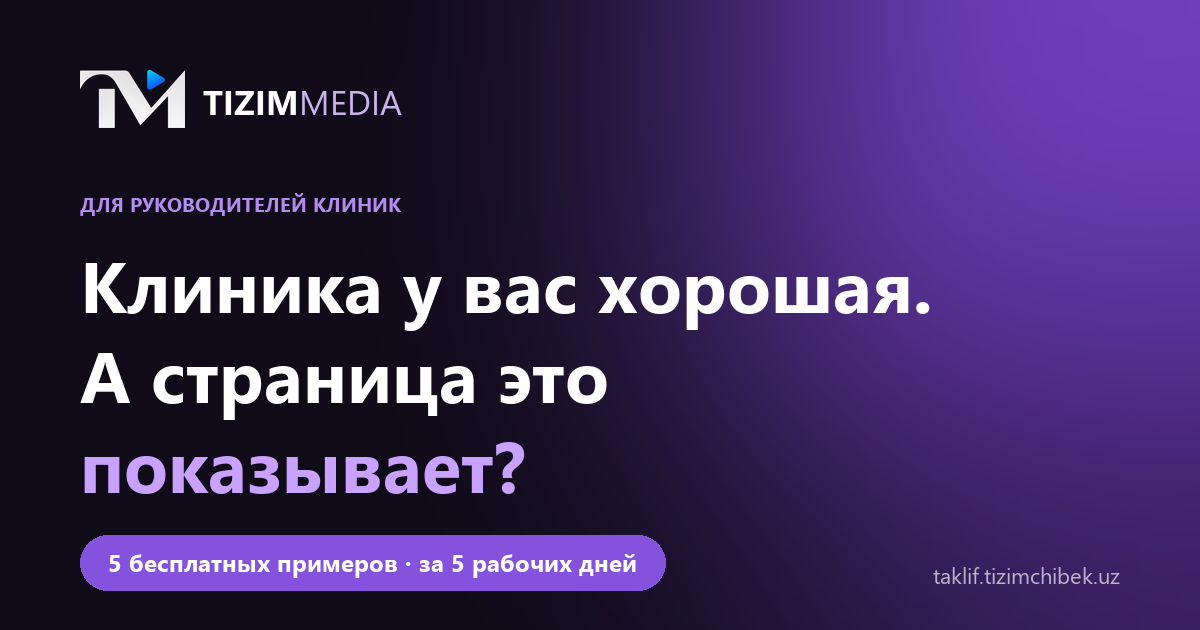
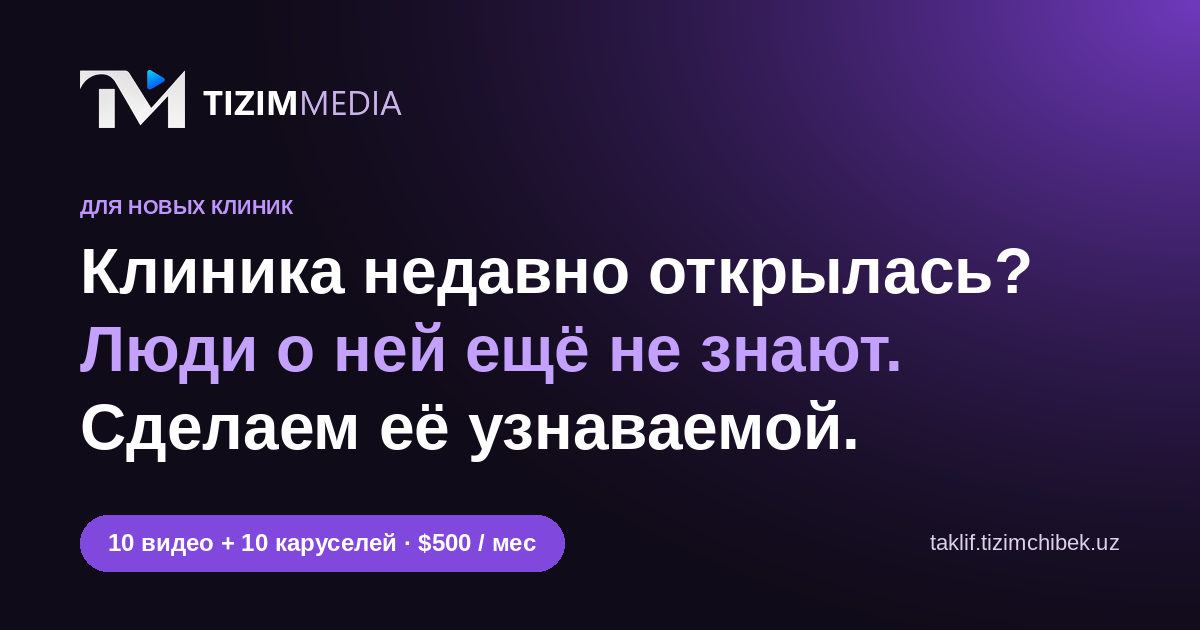
Yangi taklif: yangi klinikalarni tanitish, 10 video + 10 karusel $500, yangi rasmlar

diff --git a/index.html b/index.html
@@ -4,8 +4,8 @@
     <meta charset="UTF-8" />
     <meta name="viewport" content="width=device-width, initial-scale=1.0" />
     <meta name="theme-color" content="#100b18" />
-    <meta name="description" content="Tizimmedia — klinikalar uchun post va videolar, hamda bemorlar uchun tushunarli veb-sahifa. Avval 5 ta bepul namuna." />
-    <title>Tizimmedia — klinikangiz uchun postlar, videolar va veb-sahifa</title>
+    <meta name="description" content="Tizimmedia — yangi klinikalar uchun Instagram video va karusellari, sun’iy intellekt yordamida. Oyiga 10 video + 10 karusel — $500. Avval bepul namuna." />
+    <title>Tizimmedia — yangi klinikangizni Instagram’da tanitamiz</title>
     <link rel="canonical" href="https://taklif.tizimchibek.uz/" />
     <link rel="alternate" hreflang="uz" href="https://taklif.tizimchibek.uz/" />
     <link rel="alternate" hreflang="ru" href="https://taklif.tizimchibek.uz/ru/" />
@@ -13,8 +13,8 @@
     <meta property="og:site_name" content="Tizimmedia" />
     <meta property="og:locale" content="uz_UZ" />
     <meta property="og:url" content="https://taklif.tizimchibek.uz/" />
-    <meta property="og:title" content="Tizimmedia — klinikangiz uchun postlar, videolar va veb-sahifa" />
-    <meta property="og:description" content="Klinikangiz uchun 3 ta post va 2 ta video ssenariysi — bepul, 5 ish kunida. Ma’qul kelsa, davom etamiz." />
+    <meta property="og:title" content="Tizimmedia — yangi klinikangizni Instagram’da tanitamiz" />
+    <meta property="og:description" content="Oyiga 10 ta video va 10 ta karusel — $500. Avval 2 ta video va 3 ta karusel bepul." />
     <meta property="og:image" content="https://taklif.tizimchibek.uz/og-image.png" />
     <meta property="og:image:width" content="1200" />
     <meta property="og:image:height" content="630" />
@@ -28,12 +28,12 @@
     <script src="app.js" defer></script>
   </head>
   <body>
-    <div class="announcement"><span class="announcement-dot"></span> KLINIKALAR UCHUN TAKLIF <span class="announcement-divider">/</span> 5 TA NAMUNA BEPUL</div>
+    <div class="announcement"><span class="announcement-dot"></span> YANGI KLINIKALAR UCHUN <span class="announcement-divider">/</span> 2 VIDEO + 3 KARUSEL BEPUL</div>
     <header class="site-header">
       <a class="brand" href="#top" aria-label="Bosh sahifaga qaytish"><span class="brand-mark"><img src="./logo-mark.png" alt="Tizimmedia logotipi" /></span><span>TIZIM<span class="brand-light">MEDIA</span></span></a>
       <button class="menu-toggle" aria-label="Menyuni ochish" data-open-label="Menyuni ochish" data-close-label="Menyuni yopish" aria-expanded="false"><span></span><span></span></button>
       <nav class="main-nav" aria-label="Asosiy menyu">
-        <a href="#muammo">Muammo</a><a href="#yechim">Yechim</a><a href="#jamoa">Asoschilar</a><a href="#namunalar">Namunalar</a><a href="#taklif">Bepul taklif</a><a class="nav-lang" href="./ru/" lang="ru" hreflang="ru" aria-label="Русская версия">RU</a>
+        <a href="#muammo">Muammo</a><a href="#instagram">Nega Instagram</a><a href="#taklif">Paket va narx</a><a href="#savollar">Savollar</a><a class="nav-lang" href="./ru/" lang="ru" hreflang="ru" aria-label="Русская версия">RU</a>
         <a class="nav-cta" href="#aloqa">Bog‘lanish <span>↗</span></a>
       </nav>
     </header>
@@ -41,69 +41,49 @@
     <main id="top">
       <section class="hero section-wrap">
         <div class="hero-copy">
-          <div class="eyebrow"><span class="eyebrow-line"></span> KLINIKA RAHBARLARI UCHUN</div>
-          <h1>Klinikangiz yaxshi.<br /><span>Sahifangiz</span> buni <span>ko‘rsatyaptimi?</span></h1>
-          <p class="hero-lead">Bemor qabulga yozilishdan oldin Instagram sahifangizni ko‘rib chiqadi. Kerakli javobni topmasa, boshqa klinikani tanlaydi. Biz sahifangizni tahlil qilib, shu bo‘shliqlarni yopadigan post, video va veb-sahifa tayyorlaymiz.</p>
-          <div class="hero-actions"><a class="button button-primary" href="#taklif">5 ta bepul namunani oling <span>↗</span></a><a class="button button-quiet" href="#muammo">Muammolarni ko‘rish <span>↓</span></a></div>
+          <div class="eyebrow"><span class="eyebrow-line"></span> YANGI OCHILGAN KLINIKALAR UCHUN</div>
+          <h1>Klinikangiz yangi ochildimi?<br /><span>Odamlar</span> hali <span>bilmaydi.</span></h1>
+          <p class="hero-lead">Instagram uchun sun’iy intellekt yordamida video va karusellar tayyorlaymiz. Odamlar klinikangizni, shifokorlaringizni va xizmatlaringizni taniydi.</p>
+          <div class="hero-actions"><a class="button button-primary" href="#aloqa">Bepul namuna olish <span>↗</span></a><a class="button button-quiet" href="#taklif">Paket va narx <span>↓</span></a></div>
         </div>
-        <div class="hero-art" aria-label="Klinika qabulxonasida turgan shifokor">
+        <div class="hero-art" aria-label="Klinika Instagram sahifasi namunasi">
           <div class="art-glow"></div><div class="orbit orbit-one"></div><div class="orbit orbit-two"></div>
           <div class="art-cross">+</div>
-          <div class="art-note note-top"><span class="note-icon">✳</span><span>FOYDALI<br /><b>MA’LUMOT</b></span></div>
+          <div class="art-note note-top"><span class="note-icon">✳</span><span>KLINIKANI<br /><b>TANITAMIZ</b></span></div>
           <div class="phone-card">
             <div class="phone-top"><span class="phone-camera"></span><span>KLINIKA SAHIFASI</span><span>•••</span></div>
-            <div class="phone-image"><div class="image-halo"></div><div class="doctor-shape"><span class="doctor-head"></span><span class="doctor-body"></span></div><span class="image-caption">SHIFOKOR<br />JAVOBI</span><span class="image-tag">MUTAXASSIS BILAN</span></div>
+            <div class="phone-image"><div class="image-halo"></div><div class="doctor-shape"><span class="doctor-head"></span><span class="doctor-body"></span></div><span class="image-caption">SHIFOKOR<br />TANISHTIRUVI</span><span class="image-tag">AI VIDEO</span></div>
             <div class="phone-controls"><span>♡</span><span>◇</span><span>⌑</span><span class="control-save">▱</span></div>
-            <div class="phone-text"><b>Ko‘p so‘raladigan savol</b><br /><span>Qisqa va tushunarli javob</span></div>
+            <div class="phone-text"><b>Shifokorimiz bilan tanishing</b><br /><span>Tajriba, xizmatlar, qabul vaqti</span></div>
           </div>
-          <div class="art-note note-bottom"><span class="note-label">BIRINCHI QADAM</span><strong>05 <small>TA</small></strong><span>bepul namuna</span><a href="#taklif" aria-label="Bepul taklifga o‘tish">↗</a></div>
+          <div class="art-note note-bottom"><span class="note-label">BEPUL NAMUNA</span><strong>05 <small>TA</small></strong><span>2 video + 3 karusel</span><a href="#aloqa" aria-label="Bepul namunaga o‘tish">↗</a></div>
         </div>
       </section>
 
       <section class="problem section-pad" id="muammo">
-        <div class="section-wrap"><div class="section-kicker"><span>02</span> TANISH HOLATMI? <i></i></div><div class="problem-head"><h2>Bu gaplar sizga tanishmi?</h2><p>Ko‘p klinikalarda uchraydigan holatlar. Bittasi sizniki bo‘lsa ham, sahifangiz bemor yo‘qotyapti.</p></div>
-          <figure class="section-photo"><img src="./03-muammo.jpg" alt="Ayol telefonda klinika sahifasiga hayron bo‘lib qarab o‘tiribdi" loading="lazy" /><figcaption>Bemor kerakli ma’lumotni topa olmayapti</figcaption></figure>
+        <div class="section-wrap"><div class="section-kicker"><span>01</span> TANISH HOLATMI? <i></i></div><div class="problem-head"><h2>Klinika bor. <em>Bemor</em> kam.</h2><p>Yangi klinikalarda ko‘p uchraydigan holat. Shifokorlar tayyor, lekin odamlar sizni hali bilmaydi.</p></div>
+          <figure class="section-photo"><img src="./muammo-2.jpg" alt="Yangi ochilgan klinikaning bo‘sh qabulxonasi" loading="lazy" /><figcaption>Shifokorlar tayyor, qabul bo‘sh</figcaption></figure>
           <div class="problem-grid">
-            <article class="problem-card"><span class="card-symbol">01 /</span><span class="problem-x">×</span><h3>“Post chiqaramiz, lekin hech kim yozilmaydi.”</h3><p>Postlar bor, ammo ularda bemorning savoliga javob va keyingi qadam yo‘q.</p></article>
-            <article class="problem-card"><span class="card-symbol">02 /</span><span class="problem-x">×</span><h3>“Shifokorlarimiz kuchli, lekin ularni hech kim tanimaydi.”</h3><p>Sahifada shifokor kimligi, tajribasi va nimani davolashi ko‘rsatilmagan.</p></article>
-            <article class="problem-card"><span class="card-symbol">03 /</span><span class="problem-x">×</span><h3>“Direktda har kuni bir xil savol: narx qancha, manzil qayerda?”</h3><p>Asosiy ma’lumot sahifada topilmaydi. So‘ramaganlar esa shunchaki ketadi.</p></article>
-            <article class="problem-card problem-card-violet"><span class="card-symbol">04 /</span><span class="problem-x">×</span><h3>“Reklama berdik, odam sahifaga kirdi va chiqib ketdi.”</h3><p>Reklama odamni olib keladi, ishonchni esa sahifaning o‘zi uyg‘otishi kerak.</p></article>
+            <article class="problem-card"><span class="card-symbol">01 /</span><span class="problem-x">×</span><h3>“Ochildik, lekin bemor kam.”</h3><p>Shifokorlar bor, jihoz bor. Faqat odamlar klinika borligini bilmaydi.</p></article><article class="problem-card"><span class="card-symbol">02 /</span><span class="problem-x">×</span><h3>“Tashqaridan klinika ekani bilinmaydi.”</h3><p>Bino hali eski ko‘rinishda. Yonidan o‘tgan odam e’tibor bermaydi.</p></article><article class="problem-card"><span class="card-symbol">03 /</span><span class="problem-x">×</span><h3>“Shifokorlarimizni hech kim tanimaydi.”</h3><p>Shifokor qanchalik tajribali bo‘lmasin, uni ko‘rmagan odam qabulga yozilmaydi.</p></article><article class="problem-card problem-card-violet"><span class="card-symbol">04 /</span><span class="problem-x">×</span><h3>“Instagram sahifamiz bo‘sh.”</h3><p>Odam klinikani qidiradi, lekin sahifada ma’lumot topolmaydi va boshqasiga ketadi.</p></article>
           </div>
         </div>
       </section>
 
-      <section class="advantages section-pad" id="yechim"><div class="section-wrap"><div class="section-kicker"><span>03</span> BIZ NIMA QILAMIZ? <i></i></div><div class="advantage-layout"><h2>Biz nima <em>qilamiz?</em></h2><div class="advantage-list"><p class="advantage-lead">Biz — Tizimmedia. Post, reklama va veb-sahifa alohida-alohida qilinsa, bir-biriga ulanmay qoladi. Shuning uchun uchalasini bitta reja asosida tayyorlaymiz.</p><article><span>01</span><div><h3>Post va qisqa videolar</h3><p>Shifokorlaringiz va xizmatlaringizni tanishtiradi, bemor savollariga javob beradi.</p></div><span class="advantage-mark">✳</span></article><article><span>02</span><div><h3>Klinika haqida veb-sahifa</h3><p>Xizmatlar, shifokorlar, manzil va bog‘lanish yo‘li bir joyda bo‘ladi.</p></div><span class="advantage-mark">✳</span></article><article><span>03</span><div><h3>Oylik mavzular rejasi</h3><p>Mavzular, muddatlar va tasdiqlash tartibi boshidan kelishiladi.</p></div><span class="advantage-mark">✳</span></article><article><span>04</span><div><h3>Tibbiy ma’lumotni shifokoringiz tekshiradi</h3><p>Matn va g‘oyada sun’iy intellektdan foydalanamiz. E’lon qilishdan oldin klinikangiz mutaxassisi tasdiqlaydi.</p></div><span class="advantage-mark">✳</span></article></div></div></div></section>
+      <section class="advantages section-pad" id="instagram"><div class="section-wrap"><div class="section-kicker"><span>02</span> NEGA INSTAGRAM? <i></i></div><div class="advantage-layout"><h2>Tanilish <em>Instagram’dan</em> boshlanadi.</h2><div class="advantage-list"><p class="advantage-lead">Bugun odamlar klinikani avval telefondan qidiradi. Tanilishning eng tez va arzon yo‘li shu.</p><article><span>01</span><div><h3>Odamlar avval Instagram’ga qaraydi</h3><p>Klinikaga borishdan oldin sahifangizni ochib, shifokor va xizmatlarni ko‘radi.</p></div><span class="advantage-mark">✳</span></article><article><span>02</span><div><h3>Videoda ko‘rgan shifokorga ishonch ortadi</h3><p>Shifokoringizni tanigan odam unga qabulga yozilishga tayyorroq bo‘ladi.</p></div><span class="advantage-mark">✳</span></article><article><span>03</span><div><h3>Katta byudjet kerak emas</h3><p>Bino yoki ko‘cha reklamasidan arzon. Birinchi oydayoq sahifangiz to‘la boshlaydi.</p></div><span class="advantage-mark">✳</span></article></div></div></div></section>
 
-      <section class="system section-pad" id="tartib"><div class="section-wrap"><div class="section-kicker"><span>04</span> ISH TARTIBIMIZ <i></i></div><div class="system-heading"><h2>Uch qadamda <em>ishlaymiz.</em></h2><p>Kontentni taxmin bilan emas, sahifangiz tahliliga qarab taklif qilamiz.</p></div>
-        <figure class="section-photo"><img src="./06-tartib.jpg" alt="Ikki mutaxassis shifokor bilan stol atrofida rejani muhokama qilmoqda" loading="lazy" /><figcaption>Avval klinikangizni tushunib olamiz</figcaption></figure>
-        <div class="flow-line"><span></span><span></span><span></span></div>
-        <div class="system-grid"><article class="system-step"><span class="step-no">01</span><div class="step-icon">⌕</div><h3>Tanishamiz va tahlil qilamiz</h3><p>Klinikangiz bilan tanishamiz, Instagram sahifangizda nima yetishmayotganini ko‘rib chiqamiz.</p><span class="step-foot">SUHBAT · TAHLIL</span></article><article class="system-step"><span class="step-no">02</span><div class="step-icon">✳</div><h3>Kontent taklif qilamiz</h3><p>Tahlilga qarab, klinikangizga mos post va video mavzularini taklif qilamiz.</p><span class="step-foot">G‘OYA · REJA</span></article><article class="system-step"><span class="step-no">03</span><div class="step-icon">↗</div><h3>Tayyorlaymiz va tekshiramiz</h3><p>Kelishilgan materialni tayyorlaymiz. Tibbiy ma’lumotni mutaxassisingiz ko‘rib chiqadi.</p><span class="step-foot">TAYYORLASH · TEKSHIRISH</span></article></div>
-      </div></section>
+      <section class="offer section-pad" id="taklif"><div class="section-wrap"><div class="section-kicker"><span>03</span> PAKET VA NARX <i></i></div><div class="offer-layout"><div class="offer-copy"><div class="offer-sticker">OYIGA<br /><span>$500</span></div><h2>Oyiga <em>10 ta video</em><br />va 10 ta karusel.</h2><p>Hammasi sun’iy intellekt yordamida tayyorlanadi. Siz suratga olish va montaj bilan ovora bo‘lmaysiz. Bizga klinika rasmlari va ma’lumotlarini berasiz, xolos.</p><div class="offer-choice"><span class="choice-icon">↗</span><span>Biz klinikangizni tanitamiz.<br /><b>Sotuvga kafolat bermaymiz. Bu keyingi bosqich.</b></span></div><a class="button button-light" href="#aloqa">Bepul namuna so‘rash <span>↗</span></a></div><div class="offer-includes"><span class="offer-overline">OYLIK PAKET ICHIDA</span><div class="offer-count">$500<span>/OY</span></div><p>10 ta video va 10 ta karusel</p><div class="include-row"><span>01</span><span>10 ta video: shifokor avatari, xizmatlar haqida animatsiya, klinika rasmlaridan lavhalar</span><span>↗</span></div><div class="include-row"><span>02</span><span>10 ta karusel: xizmatlar, narxlar, shifokorlar, qabulga tayyorgarlik</span><span>↗</span></div><div class="include-row"><span>03</span><span>Oylik mavzular rejasi va har oy hisobot: nechta odam ko‘rdi, nechta obunachi qo‘shildi</span><span>↗</span></div><div class="include-row"><span>04</span><span>Tibbiy ma’lumotni e’lon qilishdan oldin shifokoringiz tasdiqlaydi</span><span>↗</span></div><div class="no-strings">AVVAL BEPUL NAMUNA <span>✳</span></div></div></div></div></section>
 
-      <section class="team section-pad" id="jamoa"><div class="section-wrap"><div class="section-kicker"><span>05</span> ASOSCHILAR <i></i></div><div class="problem-head"><h2>Siz bilan <em>kim</em> ishlaydi?</h2><p>Tizimmedia asoschilari — Nurali va Malika. Har bir klinika bilan shaxsan o‘zimiz ishlaymiz.</p></div>
+      <section class="team section-pad" id="jamoa"><div class="section-wrap"><div class="section-kicker"><span>04</span> ASOSCHILAR <i></i></div><div class="problem-head"><h2>Siz bilan <em>kim</em> ishlaydi?</h2><p>Tizimmedia asoschilari — Nurali va Malika. Har bir klinika bilan shaxsan o‘zimiz ishlaymiz.</p></div>
         <div class="team-grid">
           <article class="team-card"><span class="team-avatar">N</span><div><span class="team-role">ASOSCHI · TIZIMMEDIA</span><h3>Nurali Ishburiyev</h3><a class="team-link" href="https://www.instagram.com/tizimchibek/" target="_blank" rel="noopener noreferrer">@tizimchibek <span>↗</span></a></div></article>
           <article class="team-card"><span class="team-avatar">M</span><div><span class="team-role">ASOSCHI · TIZIMMEDIA</span><h3>Malika</h3><a class="team-link" href="https://www.instagram.com/btm.tizimmalikasi/" target="_blank" rel="noopener noreferrer">@btm.tizimmalikasi <span>↗</span></a></div></article>
         </div>
-        <p class="team-note">Ishni tizim asosida yuritishni Biznesni Tizimlashtirish Markazida (BTM) o‘rganganmiz. Ustozlarimiz — Axrolxo‘ja Raxmatxo‘jayev, Nurali Sadikov va Dilshod Khamraev.</p>
+        <p class="team-note">Klinikangiz tanilgandan keyin, xohlasangiz, keyingi bosqichga o‘tamiz: bemorlar bilan ishlash va klinika jarayonlarini tizimlashtirish. Buni Biznesni Tizimlashtirish Markazida (BTM) o‘rganganmiz.</p>
       </div></section>
 
-      <section class="showcase section-wrap section-pad" id="namunalar"><div class="section-kicker"><span>06</span> POST VA VIDEO NAMUNALARI <i></i></div><div class="showcase-head"><h2>Odamlarga kerakli<br /><em>ma’lumotlar.</em></h2><div class="showcase-tools"><p>Quyidagilar namuna uchun tanlangan mavzular. Aniq mazmunini klinika mutaxassisi bilan kelishamiz.</p><div class="sample-tabs" role="tablist" aria-label="Namunalarni saralash"><button class="sample-tab is-active" data-filter="all" role="tab" aria-selected="true">Hammasi</button><button class="sample-tab" data-filter="video" role="tab" aria-selected="false">Video</button><button class="sample-tab" data-filter="carousel" role="tab" aria-selected="false">Slaydli post</button></div></div></div>
-        <figure class="section-photo showcase-photo"><img src="./08-namunalar.jpg" alt="Telefon ekranida klinika uchun postlar to‘plami" loading="lazy" /><figcaption>Ijtimoiy tarmoq postlari uchun namuna</figcaption></figure>
-        <div class="sample-grid">
-          <article class="sample-card sample-lilac" data-kind="video"><div class="sample-meta"><span>QISQA VIDEO / 01</span><span>SHIFOKOR JAVOBI</span></div><div class="sample-art art-doctor"><span class="sample-orb"></span><span class="mini-doc"><i></i></span><span class="sample-play">▶</span><span class="sample-art-title">SHIFOKOR<br />JAVOB BERADI</span></div><div class="sample-info"><span>VIDEO MAVZUSI</span><h3>Shifokorga savol</h3><p>Bemorlar ko‘p so‘raydigan savolga qisqa javob.</p></div></article>
-          <article class="sample-card sample-dark" data-kind="carousel"><div class="sample-meta"><span>SLAYDLI POST / 02</span><span>QABULGA TAYYORGARLIK</span></div><div class="sample-art art-carousel"><div class="slide-stack"><i></i><i></i><i></i></div><span class="slide-title">QABULGA<br />TAYYORGARLIK</span><span class="slide-count">1 / 5</span><span class="slide-deco">✳</span></div><div class="sample-info"><span>POST MAVZUSI</span><h3>Qabuldan oldin nima qilish kerak?</h3><p>Shifokor tasdiqlagan tavsiyalarni sodda tushuntirish.</p></div></article>
-          <article class="sample-card sample-paper" data-kind="video"><div class="sample-meta"><span>QISQA VIDEO / 03</span><span>KLINIKA BILAN TANISHING</span></div><div class="sample-art art-clinic"><span class="clinic-frame"></span><span class="clinic-cross">+</span><span class="clinic-word">BIZNING<br />KLINIKA</span><span class="clinic-route">KLINIKA ICHIDAN · 24 SONIYA</span></div><div class="sample-info"><span>VIDEO MAVZUSI</span><h3>Klinika ichidan lavhalar</h3><p>Manzil, qabul xonalari va jamoa bilan tanishtirish.</p></div></article>
-        </div><div class="showcase-disclaimer"><span>✳</span> Bular mavzu namunalari. Tibbiy mazmunni klinika tasdiqlaydi.</div>
-      </section>
+      <section class="faq section-pad" id="savollar"><div class="section-wrap faq-layout"><div><div class="section-kicker"><span>?</span> KO‘P SO‘RALADIGAN SAVOLLAR <i></i></div><h2>Savollaringiz bormi?</h2><p class="faq-intro">Taklif haqida qisqa javoblar.</p></div><div class="faq-list"><details><summary>Bepul namunaga nimalar kiradi?<span>+</span></summary><p>Klinikangizga mos 2 ta video va 3 ta karusel tayyorlaymiz. Yoqsa davom etamiz, yoqmasa shu yerda to‘xtaymiz. Davom etish shart emas.</p></details><details><summary>Bemorlar soni oshishiga kafolat berasizmi?<span>+</span></summary><p>Yo‘q. Bizning vazifamiz: klinikangizni tanitish, Instagram sahifangizni to‘liq va ishonchli qilish. Bemorlar oqimini tizimlashtirish alohida bosqich.</p></details><details><summary>Videolar qanday tayyorlanadi?<span>+</span></summary><p>Sun’iy intellekt yordamida. Shifokoringiz roziligi bilan uning AI-avatarini yasaymiz yoki xizmatlar haqida animatsion videolar va klinika rasmlaridan lavhalar tayyorlaymiz. Mavjud bo‘lmagan shifokor yoki bemorni ko‘rsatmaymiz.</p></details><details><summary>Bizdan nima kerak bo‘ladi?<span>+</span></summary><p>Klinika va shifokorlar rasmlari, xizmatlar va narxlar ro‘yxati, hamda tibbiy ma’lumotni tasdiqlab beradigan mutaxassis.</p></details></div></div></section>
 
-      <section class="offer section-pad" id="taklif"><div class="section-wrap"><div class="section-kicker"><span>07</span> BIRINCHI TAKLIF <i></i></div><div class="offer-layout"><div class="offer-copy"><div class="offer-sticker">BEPUL<br /><span>5 TA</span></div><h2>Avval <em>5 ta namuna.</em><br />Keyin qaror.</h2><p>Klinikangizga mos 3 ta post va 2 ta video ssenariysini 5 ish kuni ichida tayyorlaymiz. Har oy faqat 3 ta klinikaga bepul namuna qilamiz.</p><div class="offer-choice"><span class="choice-icon">↗</span><span>Ma’qul kelsa — hamkorlikni davom ettiramiz.<br /><b>Ma’qul kelmasa — shu yerda to‘xtaymiz.</b></span></div><a class="button button-light" href="#aloqa">Bepul namunalarni so‘rash <span>↗</span></a></div><div class="offer-includes"><span class="offer-overline">BEPUL TAKLIF ICHIDA</span><div class="offer-count">05<span>/TA</span></div><p>klinikangizga mos tayyor namuna</p><div class="include-row"><span>01</span><span>Tanishuv va Instagram sahifangiz tahlili</span><span>↗</span></div><div class="include-row"><span>02</span><span>3 ta post va 2 ta video ssenariysi — 5 ish kunida</span><span>↗</span></div><div class="include-row"><span>03</span><span>Fikringiz va keyingi qadam haqida suhbat</span><span>↗</span></div><div class="no-strings">DAVOM ETTIRISH SHART EMAS <span>✳</span></div></div></div></div></section>
-
-      <section class="packages section-wrap section-pad"><div class="section-kicker"><span>+</span> KEYINGI ISHLAR <i></i></div><div class="packages-head"><h2>Davom etsak, nimalar <em>tayyorlaymiz?</em></h2><p>Hajm va narxni klinikangiz bilan suhbatdan keyin kelishamiz.</p></div><div class="package-grid"><article class="package-card"><div class="package-top"><span>01 / MAVZULAR</span><span class="package-icon">▤</span></div><h3>Oylik mavzular ro‘yxati</h3><p>Qaysi mavzuda va qanday post tayyorlashni oldindan rejalashtiramiz.</p><div class="package-data"><span>15–20</span><small>post va video g‘oyasi</small></div><div class="package-line">MAVZU · MATN · REJA</div></article><article class="package-card package-featured"><div class="package-top"><span>02 / POST VA VIDEO</span><span class="package-icon">◉</span></div><h3>Video va slaydli post</h3><p>Shifokorlar va klinika xizmatlari haqida material tayyorlaymiz.</p><div class="package-data"><span>12–15</span><small>video / 5–8 slaydli post</small></div><div class="package-line">SSENARIY · TASVIR · MATN</div></article><article class="package-card"><div class="package-top"><span>03 / VEB-SAHIFA</span><span class="package-icon">↗</span></div><h3>Klinika haqida sahifa</h3><p>Xizmatlar, shifokorlar, manzil va bog‘lanish yo‘li bir joyda bo‘ladi.</p><div class="package-data"><span>01</span><small>klinikaga mos veb-sahifa</small></div><div class="package-line">MA’LUMOT · DIZAYN · BOG‘LANISH</div></article></div><p class="package-note">Har oyning mavzular soni — 15–20 ta. Video va slaydli postlar sonini siz bilan alohida kelishib olamiz. Narx ham ish hajmiga qarab belgilanadi.</p></section>
-
-      <section class="faq section-pad"><div class="section-wrap faq-layout"><div><div class="section-kicker"><span>?</span> KO‘P SO‘RALADIGAN SAVOLLAR <i></i></div><h2>Savollaringiz bormi?</h2><p class="faq-intro">Taklif haqida qisqa javoblar.</p></div><div class="faq-list"><details><summary>5 ta bepul namunaga nimalar kiradi?<span>+</span></summary><p>Klinikangiz bilan tanishib, kelishilgan mavzular bo‘yicha 3 ta post va 2 ta video ssenariysini 5 ish kuni ichida tayyorlaymiz. Har oy faqat 3 ta klinikaga bepul namuna qilamiz.</p></details><details><summary>Keyin xizmatni sotib olishim shartmi?<span>+</span></summary><p>Yo‘q. Namunalarni ko‘rib chiqasiz. Davom etish yoki to‘xtatish o‘zingizga bog‘liq.</p></details><details><summary>Sun’iy intellekt tibbiy maslahat yozadimi?<span>+</span></summary><p>Sun’iy intellekt g‘oya va matn tayyorlashda yordam beradi. Tibbiy ma’lumotni klinikangizdagi mutaxassis tekshiradi va tasdiqlaydi.</p></details><details><summary>Videoda shifokor ko‘rinishi shartmi?<span>+</span></summary><p>Yo‘q. Shifokor qatnashadigan yoki faqat klinika va xizmatlarni ko‘rsatadigan videolarni tanlash mumkin.</p></details><details><summary>Narx qancha va ish qachon boshlanadi?<span>+</span></summary><p>Avval klinikangiz bilan tanishamiz, kerakli ishlarni kelishamiz, keyin narx va muddatni aytamiz.</p></details></div></div></section>
-
-      <section class="contact section-pad" id="aloqa"><div class="section-wrap contact-panel"><div class="contact-copy"><div class="section-kicker"><span>08</span> BOG‘LANISH <i></i></div><h2>Klinikangiz uchun <em>5 ta namuna</em> tayyorlaylikmi?</h2><p>Ismingiz va klinika yo‘nalishini qoldiring. Bepul namunalarni qanday tayyorlashni kelishib olamiz.</p><div class="contact-note"><span>✳</span> Avval gaplashamiz, keyin qaror qilasiz.</div><div class="contact-social">Telefon: <a href="tel:+998994428358">+998 99 442 83 58</a> · <a href="https://t.me/+998994428358" target="_blank" rel="noopener noreferrer">Telegram</a></div><div class="contact-social">Instagram: <a href="https://www.instagram.com/tizimchibek/" target="_blank" rel="noopener noreferrer">@tizimchibek</a> · <a href="https://www.instagram.com/btm.tizimmalikasi/" target="_blank" rel="noopener noreferrer">@btm.tizimmalikasi</a></div></div><form class="lead-form" id="lead-form"><label for="clinic-name">Ismingiz va klinika nomi</label><input id="clinic-name" name="name" autocomplete="name" placeholder="Masalan: Dilnoza, Nova klinikasi" required /><label for="clinic-focus">Klinika yo‘nalishi</label><select id="clinic-focus" name="focus" required><option value="" disabled selected>Tanlang</option><option>Tish klinikasi</option><option>Tahlil va tekshiruv markazi</option><option>Ko‘p xizmatli klinika</option><option>Go‘zallik klinikasi</option><option>Boshqa</option></select><label for="clinic-contact">Telefon yoki Telegram manzili</label><input id="clinic-contact" name="contact" placeholder="Telefon raqam yoki @ism" required /><button class="button button-primary form-submit" type="submit">Bepul namunalarni so‘rash <span>↗</span></button><p class="form-privacy" id="form-privacy">Tugmani bossangiz, tayyor xabar Telegram’da ochiladi. Xabarni yuborishdan oldin tekshirib olishingiz mumkin.</p><div class="form-status" id="form-status" role="status" aria-live="polite"></div></form></div></section>
+      <section class="contact section-pad" id="aloqa"><div class="section-wrap contact-panel"><div class="contact-copy"><div class="section-kicker"><span>05</span> BOG‘LANISH <i></i></div><h2>Klinikangiz uchun <em>bepul namuna</em> tayyorlaylikmi?</h2><p>Ismingiz va klinika yo‘nalishini qoldiring. 2 ta video va 3 ta karuselni bepul tayyorlab beramiz.</p><div class="contact-note"><span>✳</span> Avval namunani ko‘rasiz, keyin qaror qilasiz.</div><div class="contact-social">Telefon: <a href="tel:+998994428358">+998 99 442 83 58</a> · <a href="https://t.me/+998994428358" target="_blank" rel="noopener noreferrer">Telegram</a></div><div class="contact-social">Instagram: <a href="https://www.instagram.com/tizimchibek/" target="_blank" rel="noopener noreferrer">@tizimchibek</a> · <a href="https://www.instagram.com/btm.tizimmalikasi/" target="_blank" rel="noopener noreferrer">@btm.tizimmalikasi</a></div></div><form class="lead-form" id="lead-form"><label for="clinic-name">Ismingiz va klinika nomi</label><input id="clinic-name" name="name" autocomplete="name" placeholder="Masalan: Dilnoza, Nova klinikasi" required /><label for="clinic-focus">Klinika yo‘nalishi</label><select id="clinic-focus" name="focus" required><option value="" disabled selected>Tanlang</option><option>Tish klinikasi</option><option>Tahlil va tekshiruv markazi</option><option>Ko‘p xizmatli klinika</option><option>Go‘zallik klinikasi</option><option>Boshqa</option></select><label for="clinic-contact">Telefon yoki Telegram manzili</label><input id="clinic-contact" name="contact" placeholder="Telefon raqam yoki @ism" required /><button class="button button-primary form-submit" type="submit">Bepul namuna so‘rash <span>↗</span></button><p class="form-privacy" id="form-privacy">Tugmani bossangiz, tayyor xabar Telegram’da ochiladi. Xabarni yuborishdan oldin tekshirib olishingiz mumkin.</p><div class="form-status" id="form-status" role="status" aria-live="polite"></div></form></div></section>
     </main>
-    <footer class="site-footer"><a class="brand" href="#top"><span class="brand-mark"><img src="./logo-mark.png" alt="Tizimmedia logotipi" /></span><span>TIZIM<span class="brand-light">MEDIA</span></span></a><p>TIZIMLI KONTENT. KUCHLI NATIJA.</p><a class="footer-up" href="#top">YUQORIGA ↑</a><span class="footer-year">© 2026</span></footer>  </body>
+    <footer class="site-footer"><a class="brand" href="#top"><span class="brand-mark"><img src="./logo-mark.png" alt="Tizimmedia logotipi" /></span><span>TIZIM<span class="brand-light">MEDIA</span></span></a><p>KLINIKANGIZNI TANITAMIZ.</p><a class="footer-up" href="#top">YUQORIGA ↑</a><span class="footer-year">© 2026</span></footer>  </body>
 </html>

diff --git a/app.js b/app.js
@@ -83,7 +83,7 @@ const isRussian = document.documentElement.lang === "ru";
 
 const formText = isRussian
   ? {
-      greeting: "Здравствуйте! Хочу получить 5 бесплатных примеров для нашей клиники.",
+      greeting: "Здравствуйте! Хочу получить бесплатный пример (2 видео и 3 карусели) для нашей клиники.",
       name: "Имя и клиника",
       focus: "Направление",
       contact: "Контакт",
@@ -94,7 +94,7 @@ const formText = isRussian
       opened: "Сообщение открыто в Telegram. Нажмите «Отправить».",
     }
   : {
-      greeting: "Assalomu alaykum! Klinikamiz uchun 5 ta bepul namunani so‘ramoqchiman.",
+      greeting: "Assalomu alaykum! Klinikamiz uchun bepul namuna (2 ta video va 3 ta karusel) so‘ramoqchiman.",
       name: "Ism va klinika",
       focus: "Yo‘nalish",
       contact: "Bog‘lanish uchun",

diff --git a/styles.css b/styles.css
@@ -21,3 +21,7 @@ body{font-size:16px}.announcement{font-size:11px}.main-nav{font-size:14px}.eyebr
 .flow-line{grid-template-columns:repeat(3,1fr)}.advantage-list .advantage-lead{font-size:16px;line-height:1.7;color:#d6cedd;margin:0 0 22px;max-width:520px}.nav-lang{font-weight:700;letter-spacing:.08em;opacity:.8}.nav-lang:hover{opacity:1}
 @media(min-width:641px){.system-grid{grid-template-columns:repeat(3,1fr)}}
 @media(min-width:1101px){.problem-grid{grid-template-columns:repeat(4,1fr)}}@media(min-width:901px) and (max-width:1100px){.problem-grid{grid-template-columns:repeat(2,1fr)}}
+
+.offer-includes::after,.faq-layout>div:first-child::after{display:none}
+.hero-art{background-image:linear-gradient(180deg,rgba(18,11,28,.04) 34%,rgba(18,11,28,.46)),url("./hero-2.jpg");background-position:center,48% 30%}
+.advantages h2::after{background-image:linear-gradient(0deg,rgba(20,13,28,.12),rgba(20,13,28,.02)),url("./instagram-2.jpg")}
